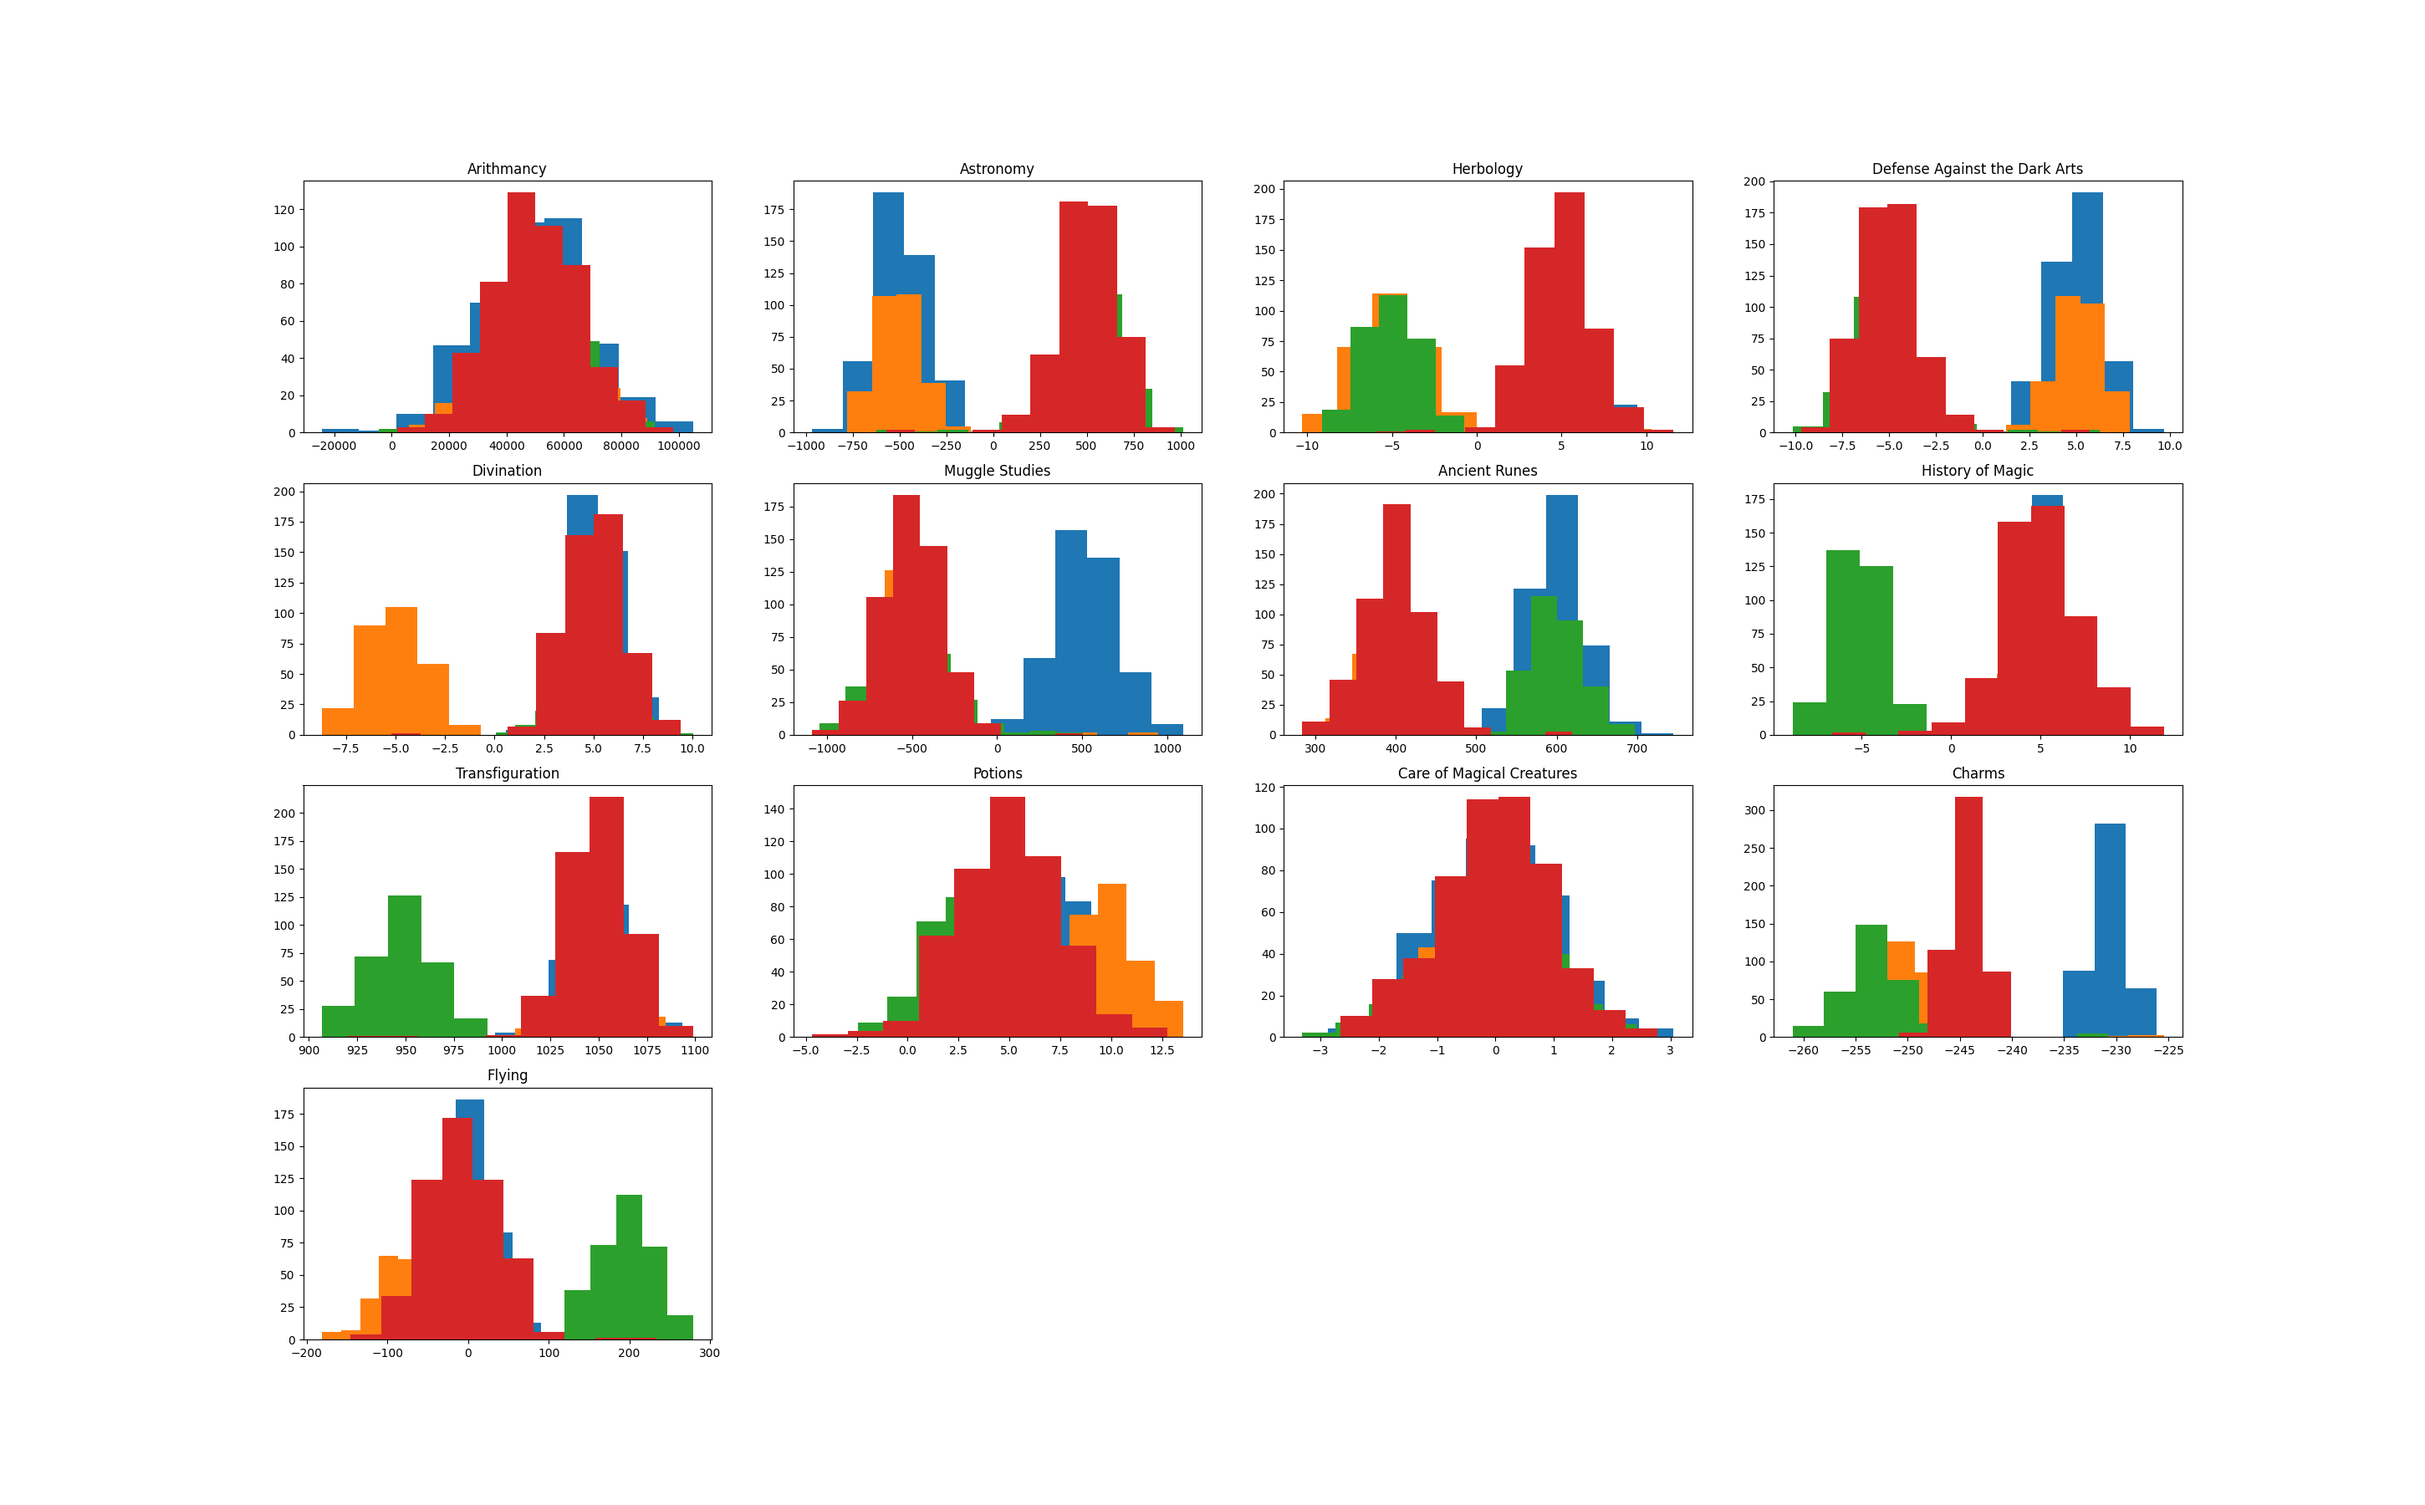
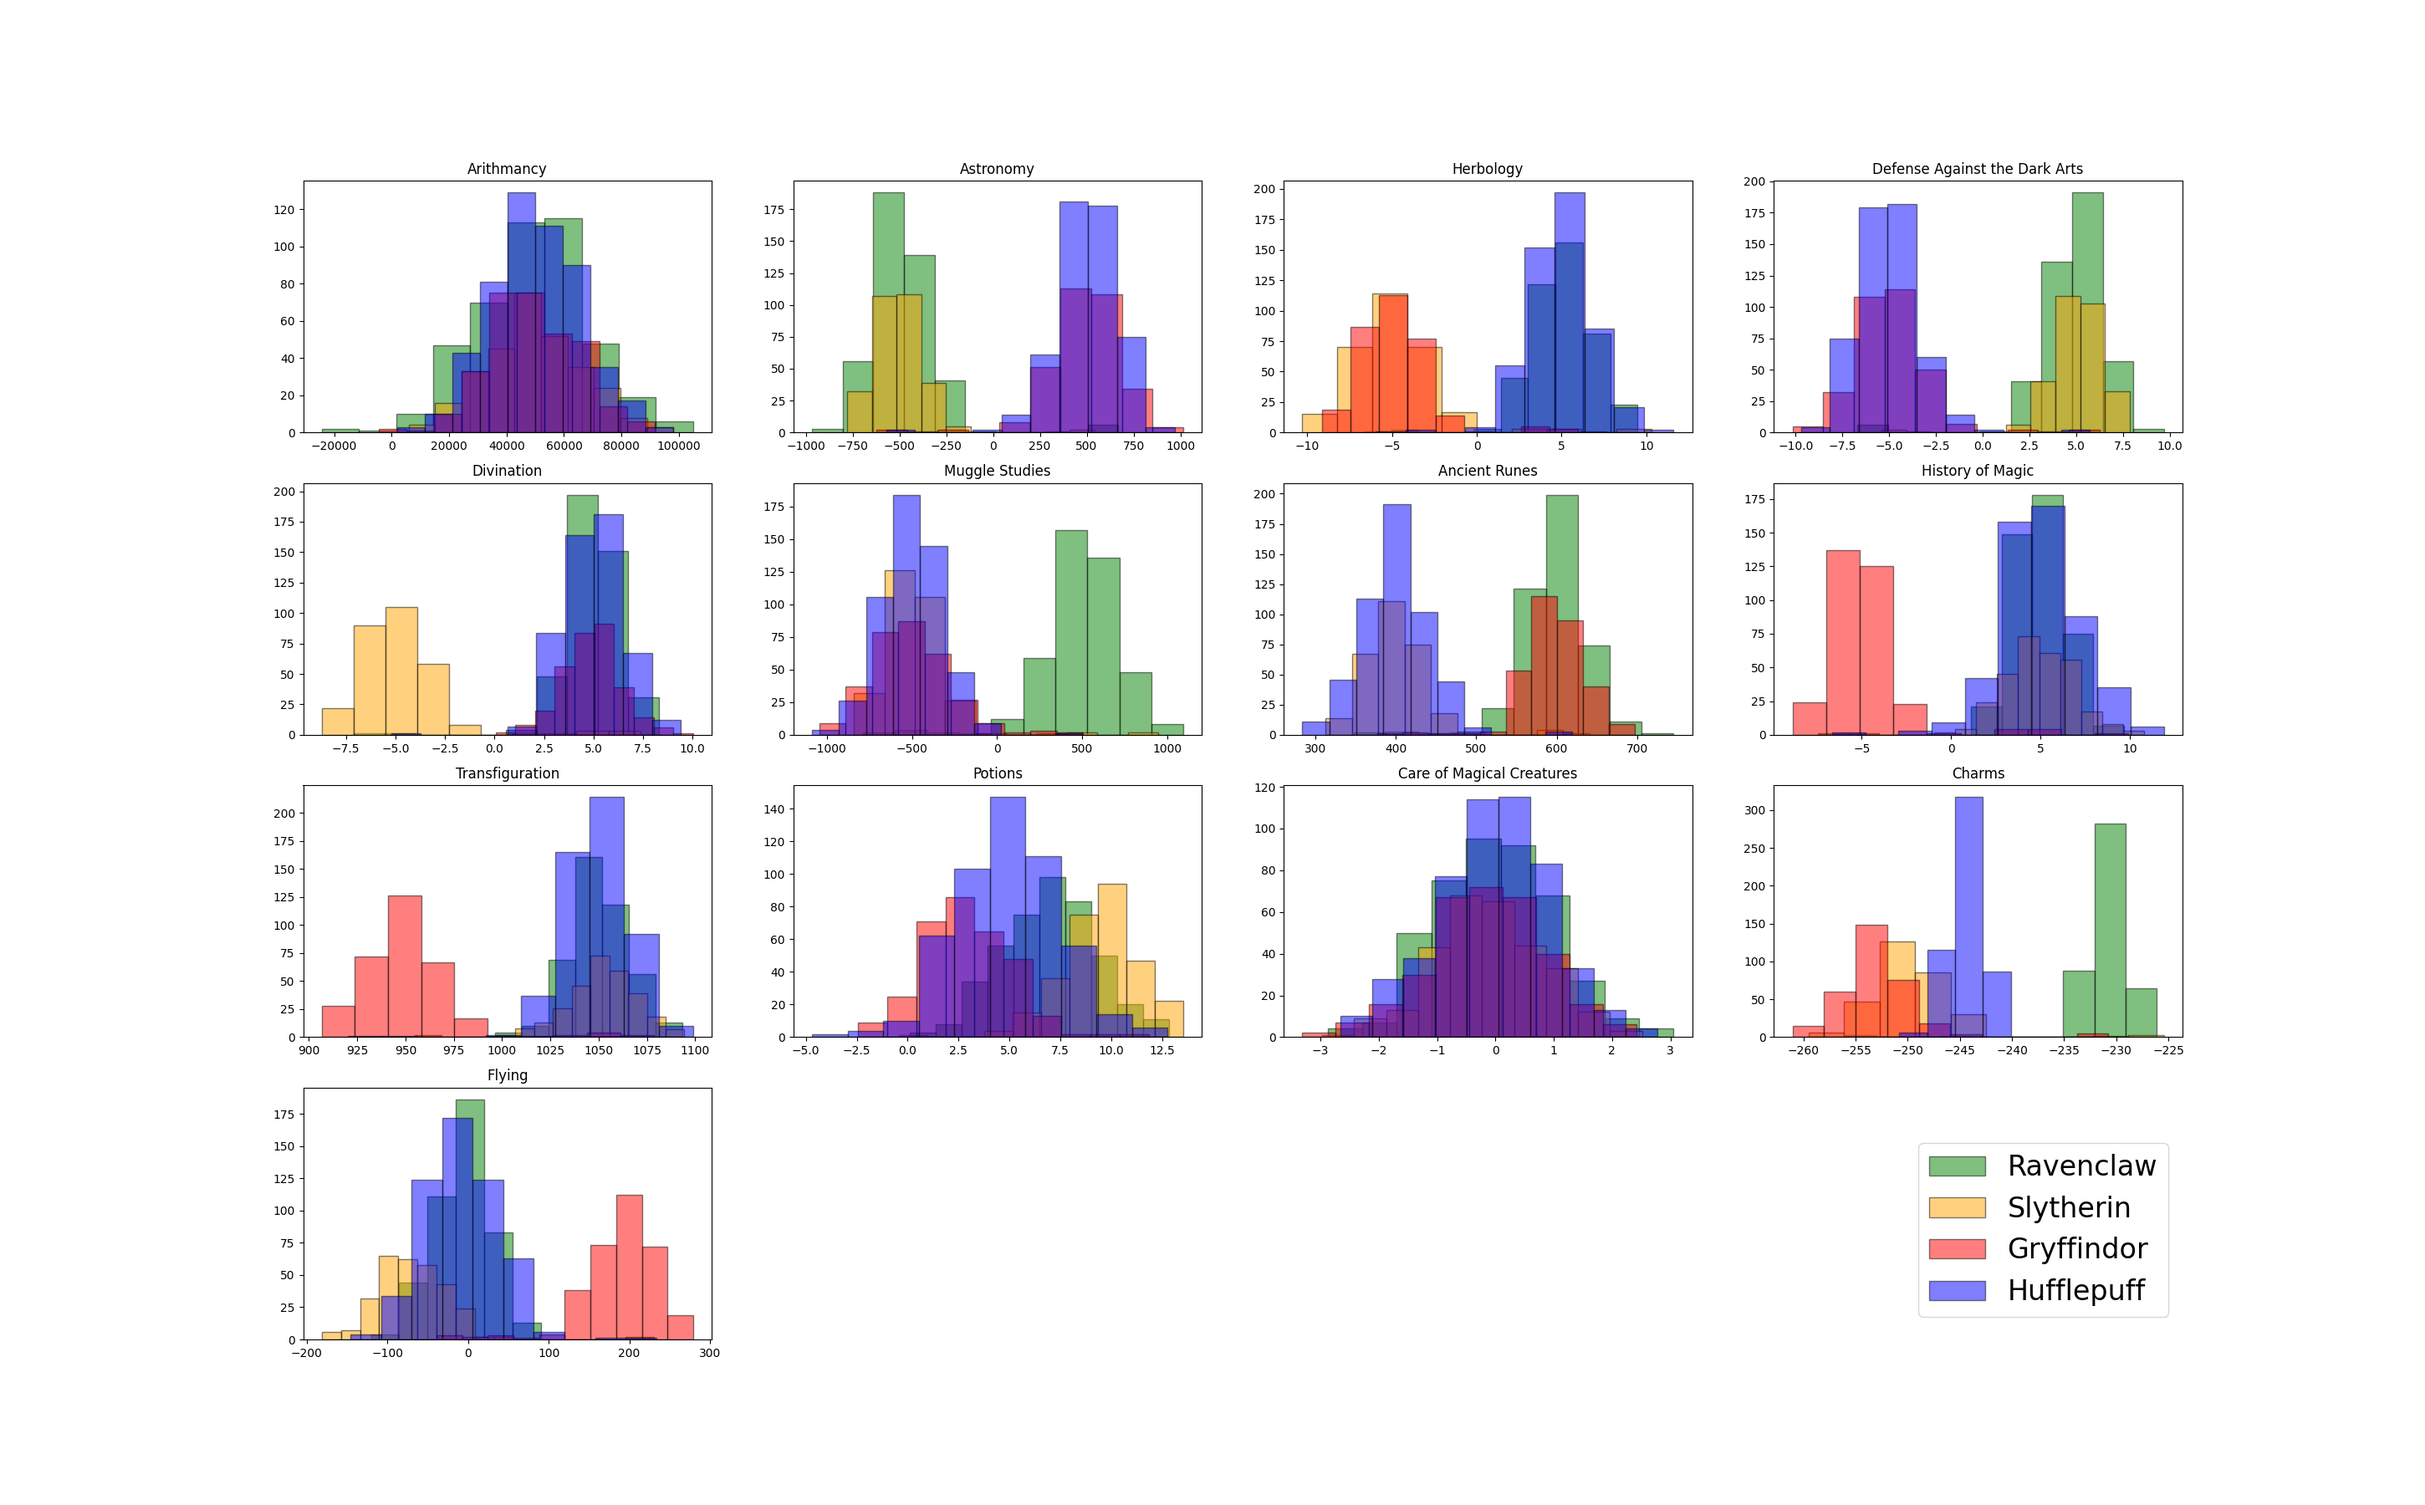
Hist OK

diff --git a/data_analysis/histogram.py b/data_analysis/histogram.py
@@ -20,6 +20,7 @@ def main() -> None:
         for a in ax.ravel():
             a.axis("off")
 
+        color_map = {'Ravenclaw':'Green', 'Slytherin':'Orange', 'Gryffindor':'Red', 'Hufflepuff':'Blue'}
         i = 0
         all_house = set['Hogwarts House'].unique()
         for feature_name in features_name:
@@ -28,12 +29,14 @@ def main() -> None:
             for house in all_house:
                 data_by_house = set.loc[set['Hogwarts House'] == house]
                 feature = data_by_house[feature_name]
-                ax[x,y].hist(feature)
+                ax[x,y].hist(feature, color=color_map[house], alpha=0.5, edgecolor='black', label=house)
                 ax[x,y].title.set_text(feature_name)
                 ax[x,y].axis("on")
             i += 1
+        fig.legend(all_house, bbox_to_anchor=(0.9, 0.25), fontsize=24)
 
         fig.savefig("histogram.png")
+        plt.show()
     except (KeyboardInterrupt) as err:
         pass
 
